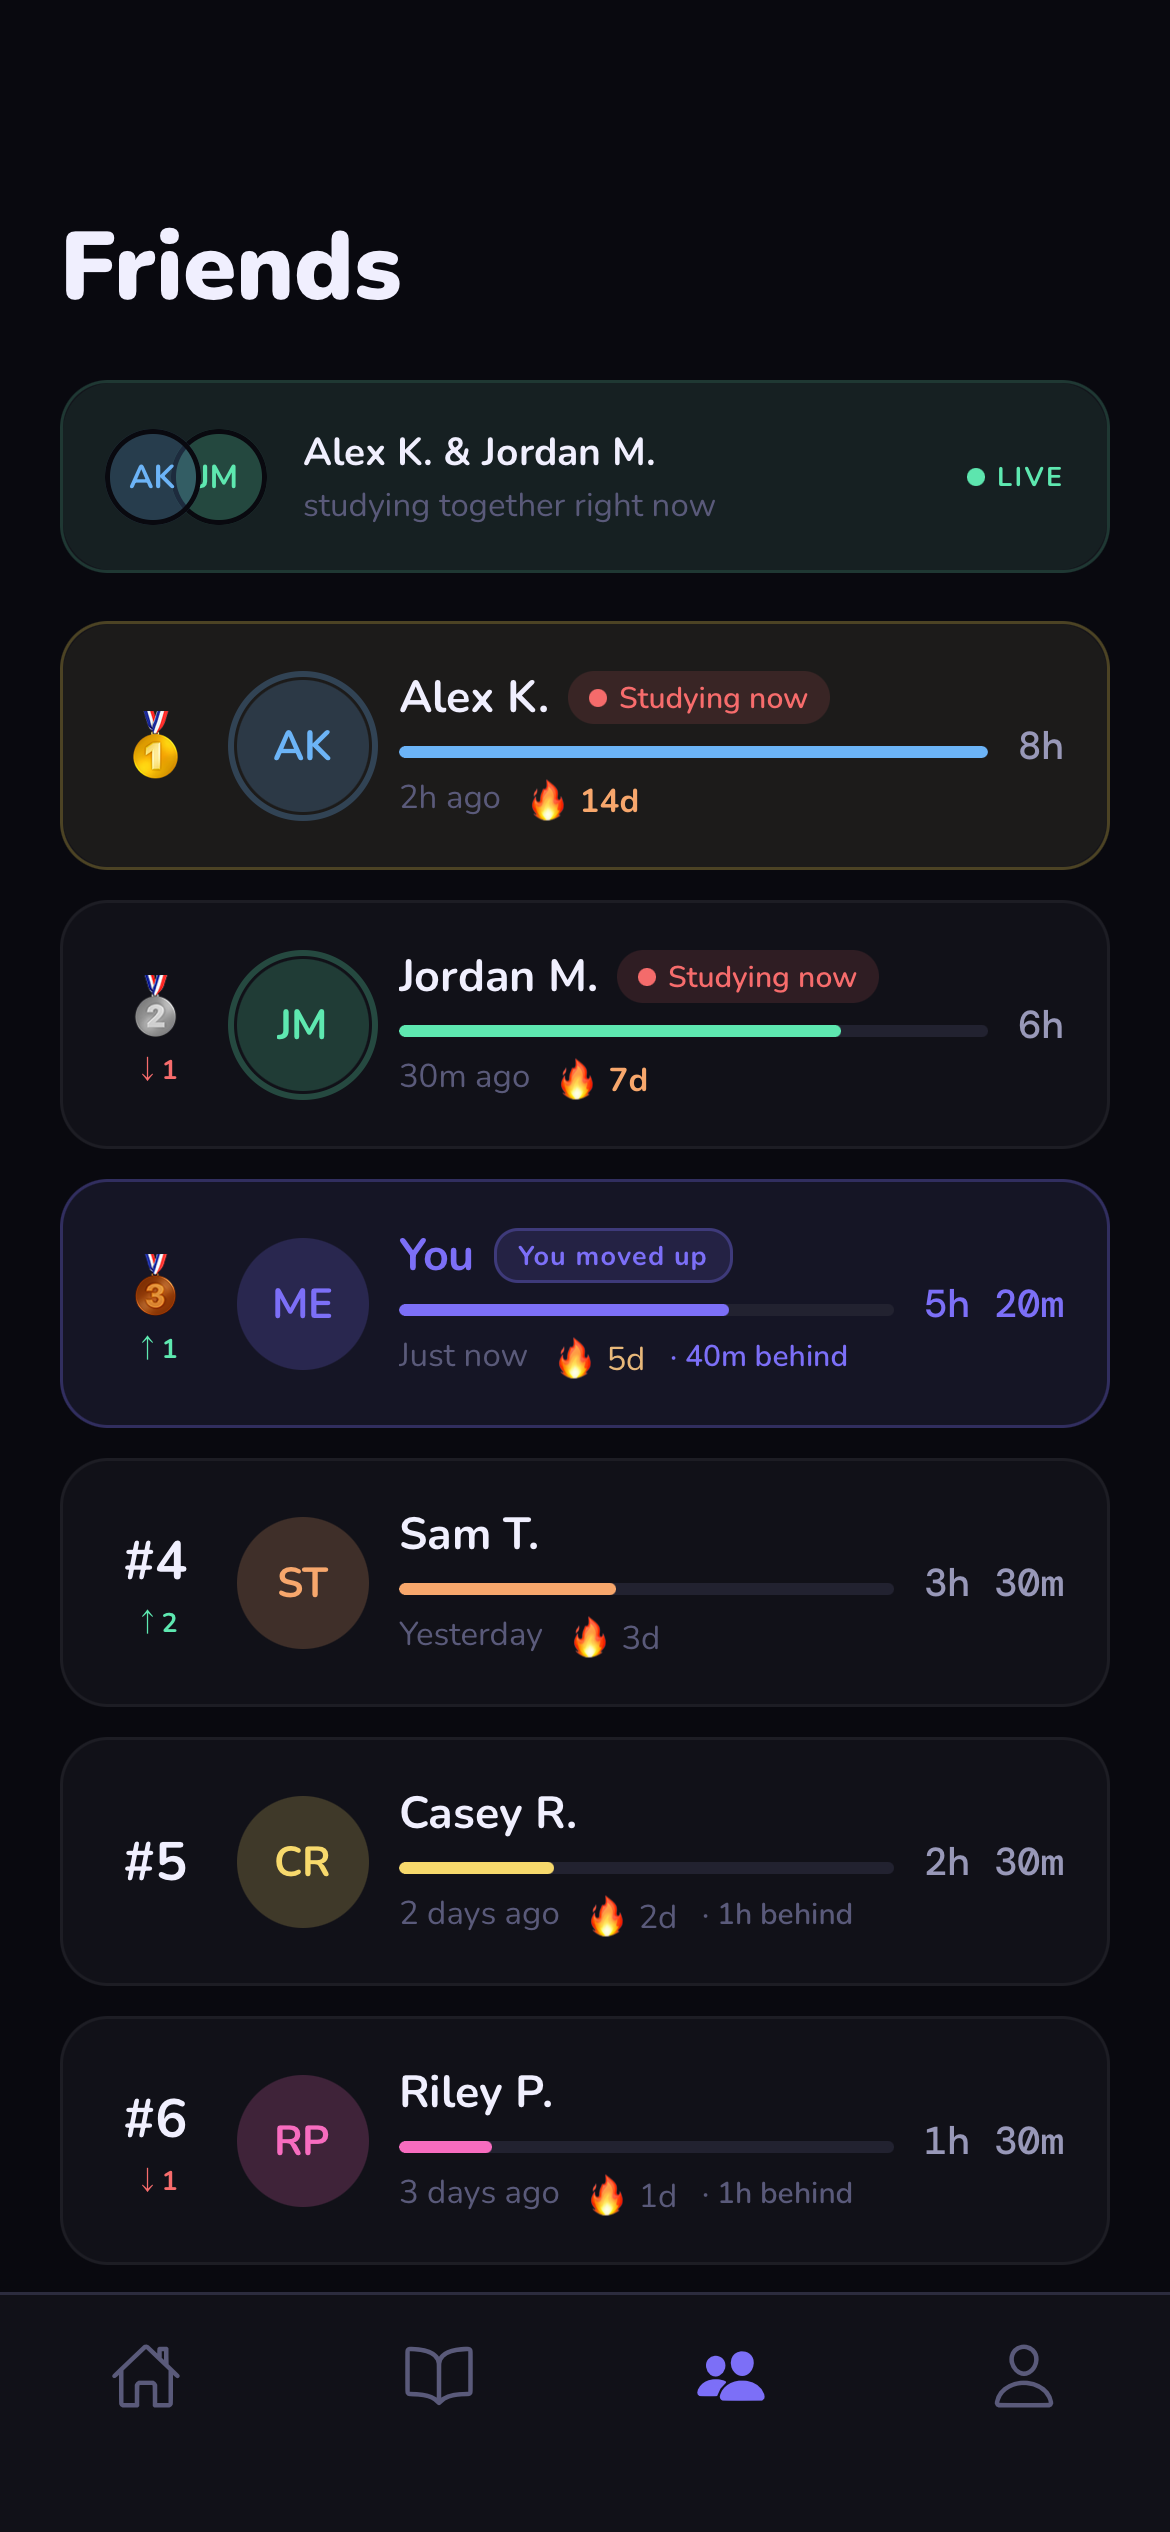
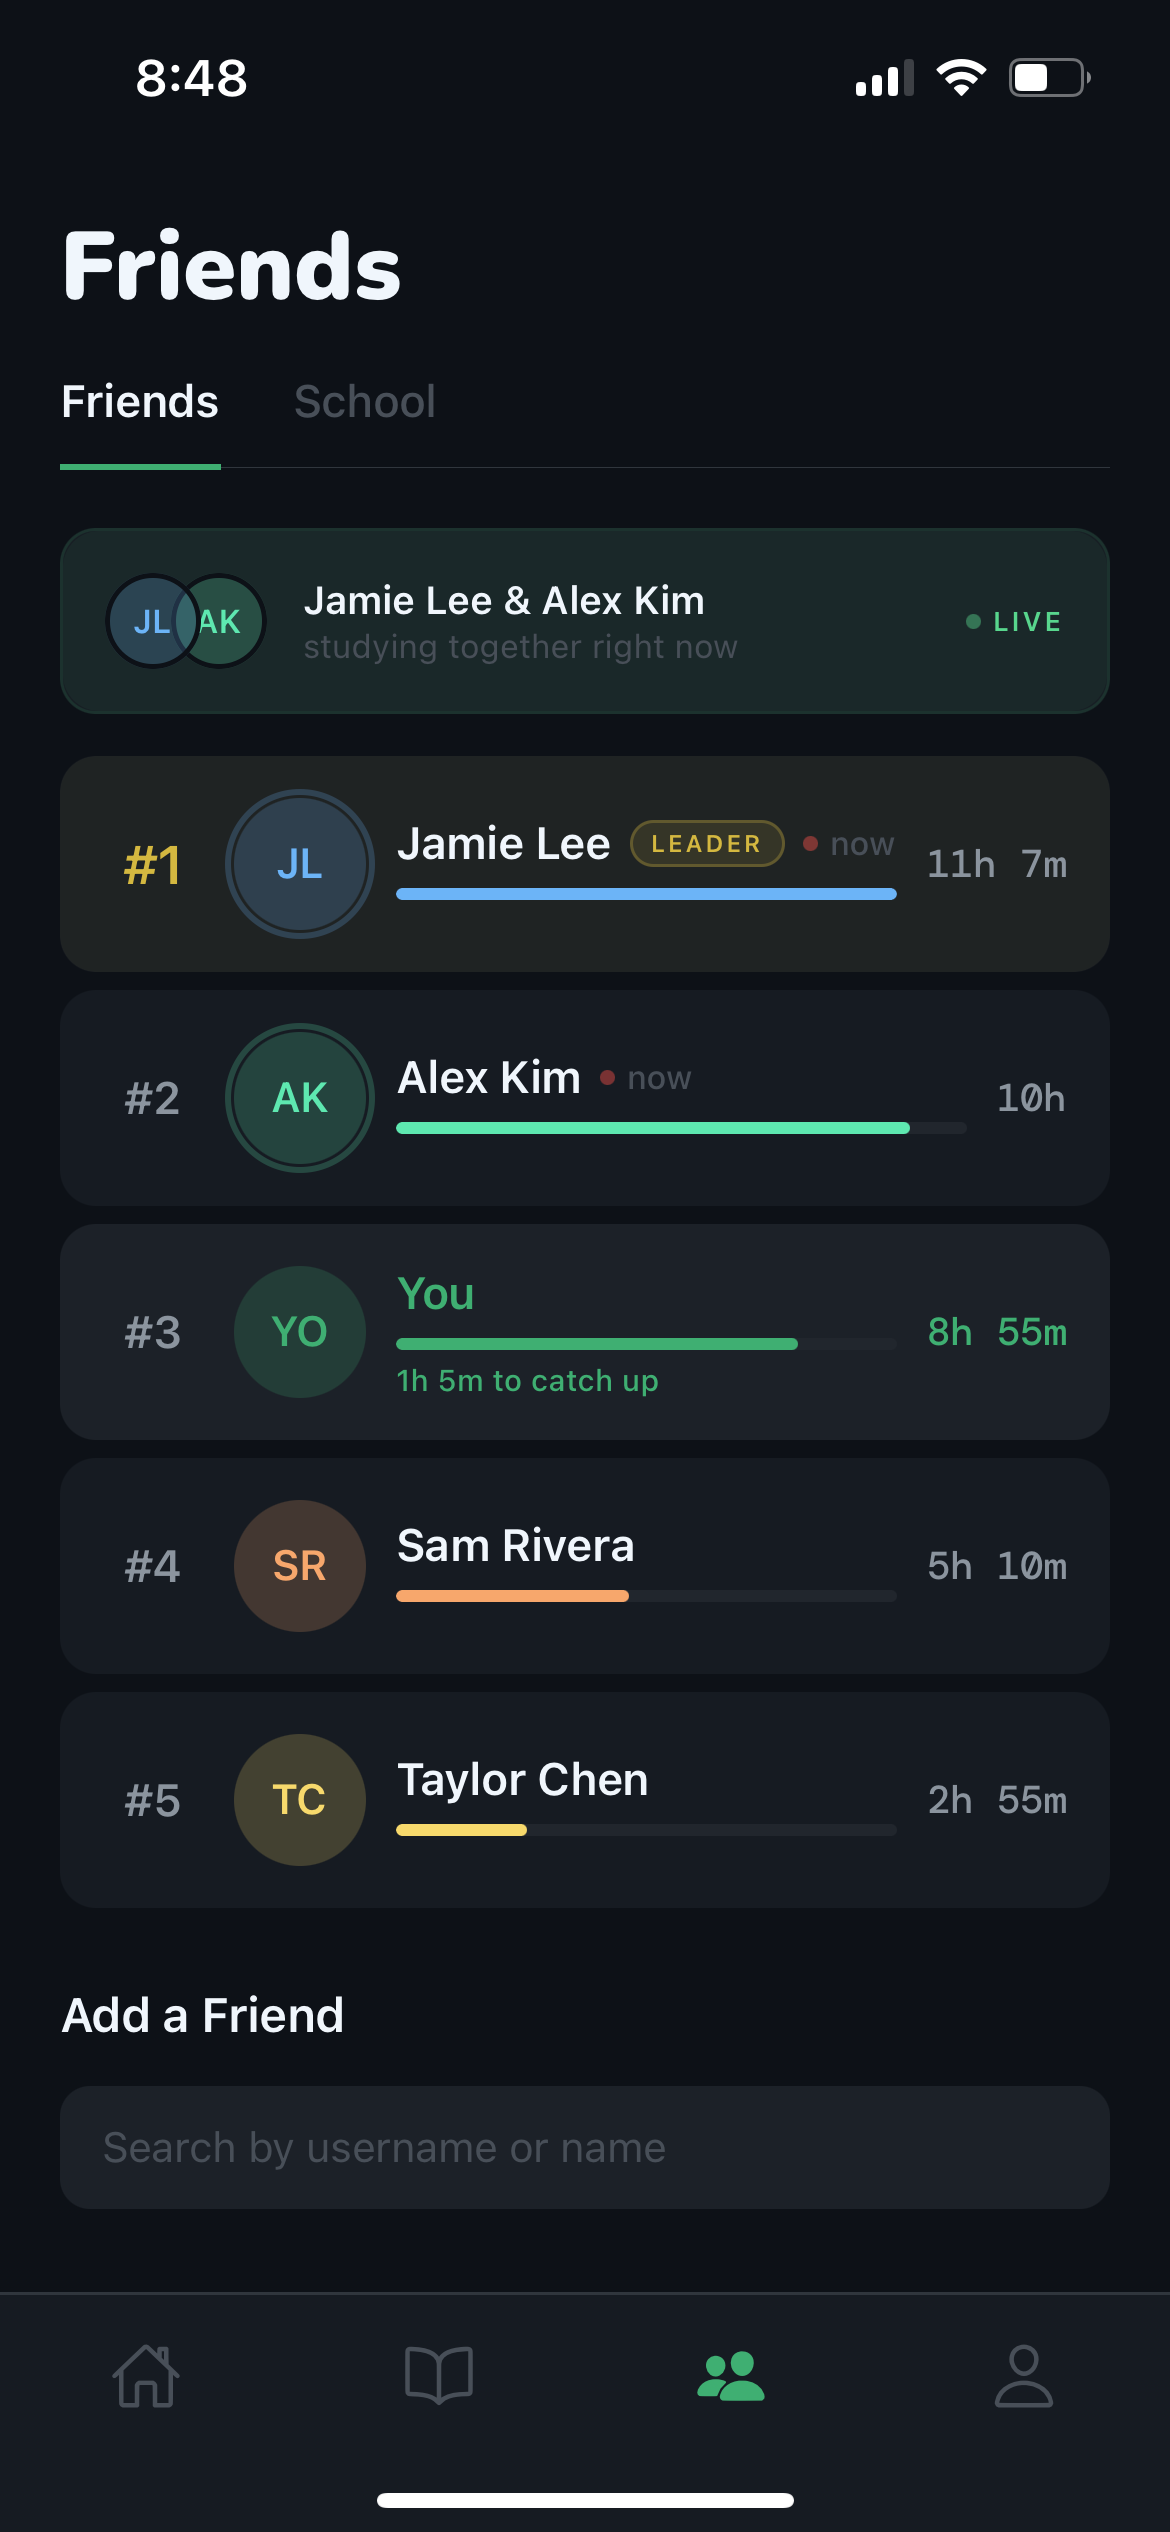
Update README screenshots with new UI designs
Replace all four app screenshots with updated versions showing the
current design. Swap timer screenshot for subjects/tasks screen.

diff --git a/README.md b/README.md
@@ -4,9 +4,9 @@ A mobile app for students to log study sessions, track weekly goals, and compete
 
 <p align="center">
   <img src="assets/screenshots/home.png" width="23%" />
+  <img src="assets/screenshots/subjects.png" width="23%" />
   <img src="assets/screenshots/friends.png" width="23%" />
   <img src="assets/screenshots/profile.png" width="23%" />
-  <img src="assets/screenshots/timer.png" width="23%" />
 </p>
 
 ## Overview
